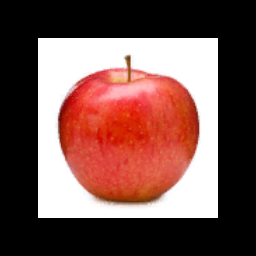
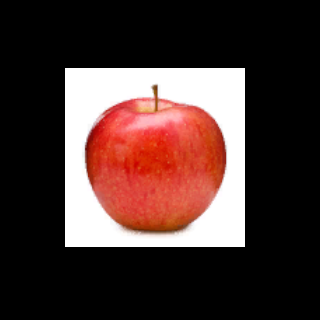
input tensor constructio WIP

diff --git a/Assets/Scripts/ObjectDetector.cs b/Assets/Scripts/ObjectDetector.cs
@@ -1,27 +1,35 @@
-using System.Collections;
-using System.Collections.Generic;
+using System;
+using System.IO;
 using Unity.Barracuda;
 using UnityEngine;
-using HoloLensCameraStream;
+// using HoloLensCameraStream;
 
 public class ObjectDetector : MonoBehaviour
 {
 
     public NNModel modelAsset;
 
+    private string imagePath;
+    private readonly string imageName = "cropped_screenshot.png";
+    private string fullPath;
+
     private Model m_RuntimeModel;
-    
-    // Start is called before the first frame update
+    private IWorker m_Worker;
+
+    private void Awake()
+    {
+        imagePath = Application.dataPath + "/Pictures";
+        fullPath = Path.Combine(imagePath, imageName);
+    }
+
     void Start()
     {
         m_RuntimeModel = ModelLoader.Load(modelAsset);
-        var worker = WorkerFactory.CreateWorker(WorkerFactory.Type.ComputePrecompiled, m_RuntimeModel);
+        m_Worker = WorkerFactory.CreateWorker(WorkerFactory.Type.ComputePrecompiled, m_RuntimeModel);
         Tensor input = new Tensor(1, 320, 320, 3);
-    }
-
-    // Update is called once per frame
-    void Update()
-    {
+        
+        if(!File.Exists(fullPath)) Debug.LogError("File not found!");
+        byte[] imageBytes = File.ReadAllBytes(fullPath);
         
     }
 }

diff --git a/Assets/Scripts/ImageCropper.cs b/Assets/Scripts/ImageCropper.cs
@@ -8,7 +8,7 @@ public class ImageCropper : MonoBehaviour
 {
     private string imagePath;
     private readonly string imageName = "screenshot.png";
-    private readonly int cropSize = 256;
+    private readonly int cropSize = 320;
     private string fullPath;
 
     private void Awake()
@@ -47,7 +47,6 @@ public class ImageCropper : MonoBehaviour
             Debug.Log("Image cropped and saved successfully!");
 
         }
-        
         
         yield return new WaitForSeconds(1f);
     }
